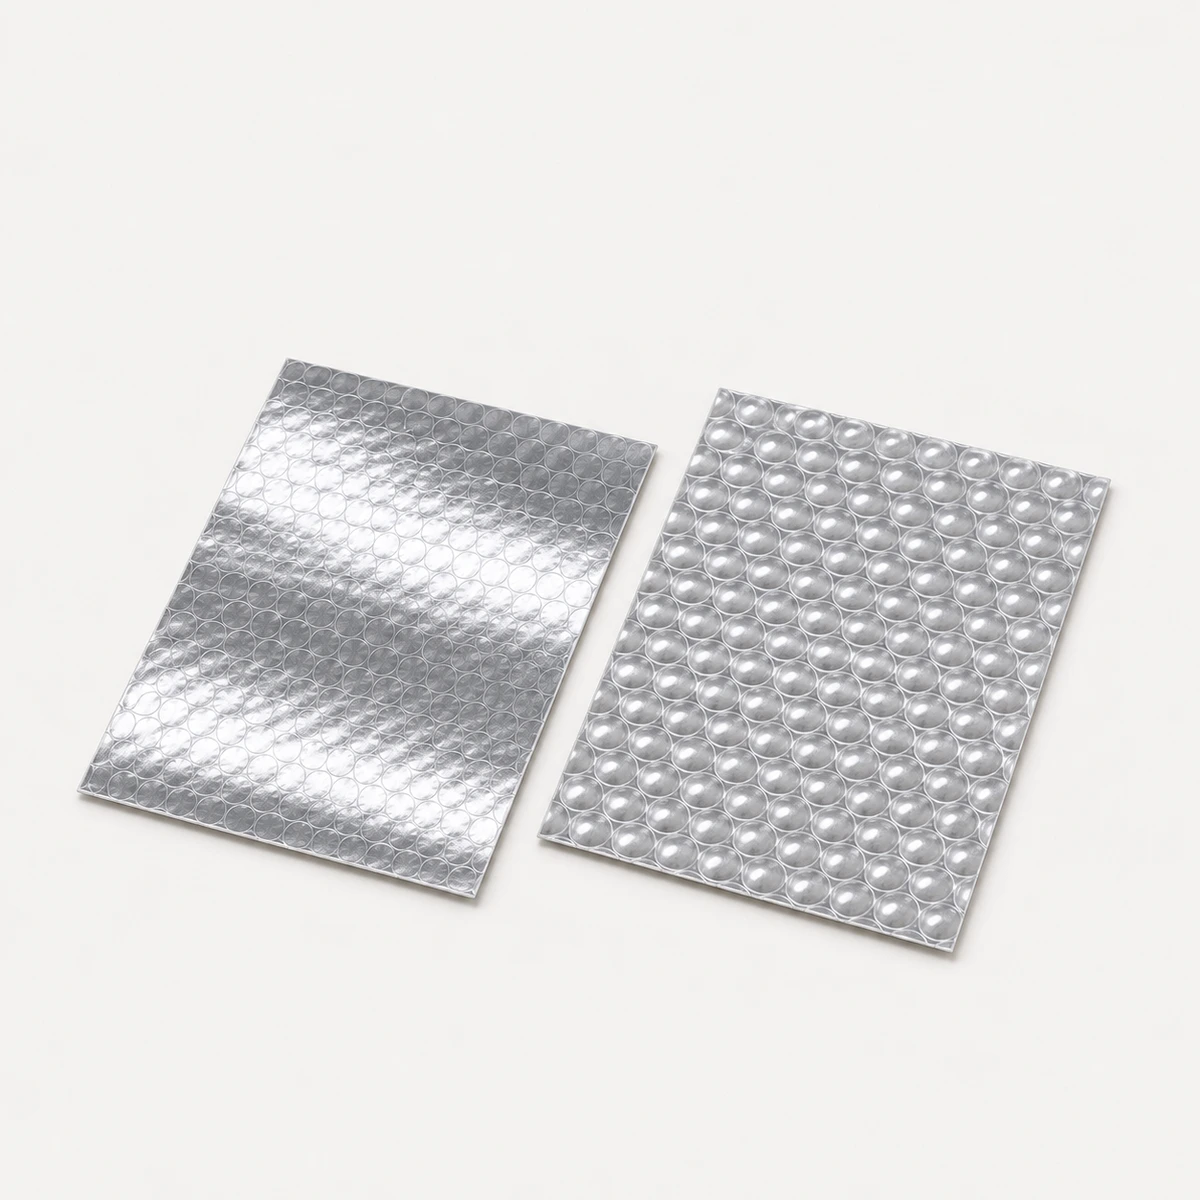
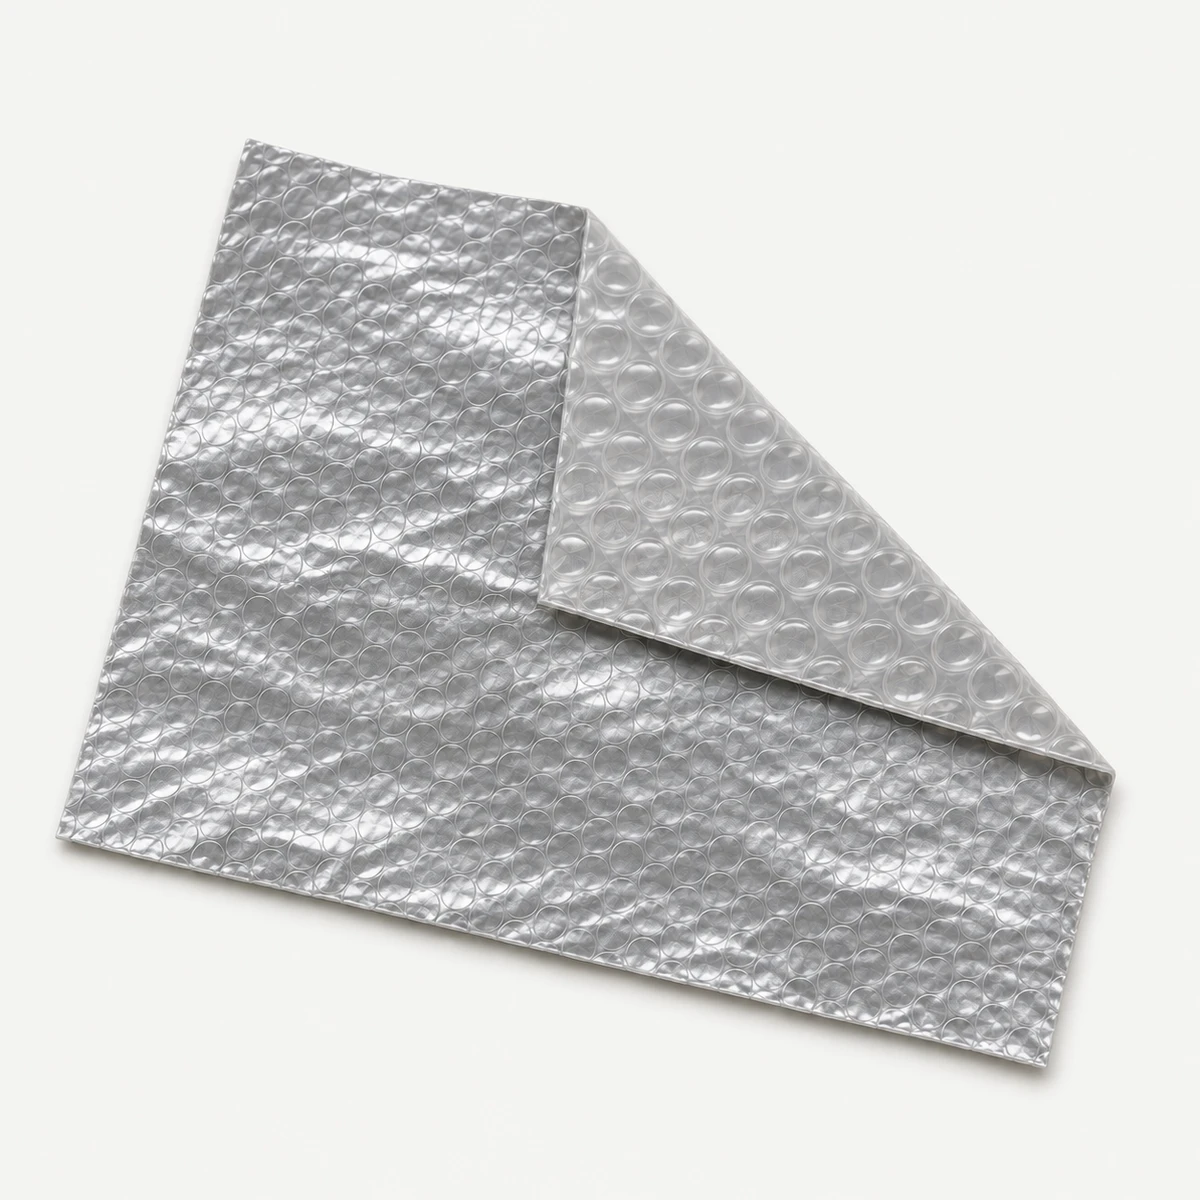
Refine three product galleries and add insulated mailer selection

diff --git a/src/MailerDetails.tsx b/src/MailerDetails.tsx
@@ -1,6 +1,55 @@
-import {tx,type Lang} from './data'
+import { bags, tx, type Lang } from './data'
+import { href } from './routes'
 
 export default function MailerDetails({lang}:{lang:Lang}) {
- const t=(en:string,zh:string,es:string)=>tx(en,zh,es)[lang]
- return <section className="detail-block" id="mailer-pack-out"><div className="detail-block-heading"><span>09</span><h2>{t('Insulated mailer selection','保温邮寄包装选型','Selección para envíos aislados')}</h2></div><p>{t('For small parcels, check this self-seal pouch together with the filled container and outer box. Allow space for the adhesive flap and any coolant. Test loading, corners and closure with a filled sample; a foil finish alone does not establish cushioning or thermal duration.','用于小件邮寄包装时，应将本自粘封口袋与装好后的容器及外箱一并核对，为封口翻边和冰源预留空间。通过装载样品检查装入、边角和封口；铝箔外观本身不能证明缓冲效果或保温时长。','Para pequeños paquetes, revise esta bolsa autoadhesiva con el recipiente lleno y la caja exterior. Reserve espacio para la solapa y el refrigerante. Compruebe carga, esquinas y cierre con una muestra llena; el acabado de aluminio no acredita amortiguación ni duración térmica.')}</p></section>
+  const t = (en:string, zh:string, es:string) => tx(en, zh, es)[lang]
+  const formats = [
+    {
+      slug: 'self-adhesive-foil-bags',
+      guidance: tx(
+        'Trial the filled container through the opening, then check the flap can fold onto a clear sealing area. Include container corners and any coolant in the fit check.',
+        '先用装好后的容器试装，再检查翻边能否落在完整封口区域。容器边角及拟配冰源都要计入适配检查。',
+        'Pruebe la abertura con el recipiente lleno y compruebe que la solapa alcance una zona de sellado libre. Incluya las esquinas y cualquier refrigerante al revisar el ajuste.'
+      ),
+    },
+    {
+      slug: 'gusseted-self-seal-foil-bags',
+      guidance: tx(
+        'Compare the gusseted base when the package needs more depth. Check the expanded base against the box footprint, and confirm that the filled box passes through the opening before choosing a size.',
+        '盒装内容物需要底部深度时，比较立体底款。按盒底占地核对底部展开空间，并先检查装好的盒子能否通过袋口。',
+        'Compare la base con fuelle cuando el paquete necesite más fondo. Revise la base desplegada frente a la caja y confirme que la caja llena pase por la abertura antes de elegir medidas.'
+      ),
+    },
+    {
+      slug: 'foil-insulated-box-liners',
+      guidance: tx(
+        'Compare a liner when you are lining a separate shipping container. Use that container’s usable internal dimensions and allow for the goods, coolant and top closure. Confirm the outer container separately.',
+        '如果要给独立运输外箱配置保温内衬，比较箱内衬款。按外箱有效内尺寸安排货物、冰源和顶部封合空间，外箱本身单独确认。',
+        'Compare un revestimiento si va dentro de un contenedor de transporte independiente. Use las medidas interiores útiles y reserve espacio para mercancía, refrigerante y cierre superior. Confirme el contenedor exterior por separado.'
+      ),
+    },
+  ]
+
+  return <section className="detail-block" id="mailer-pack-out">
+    <div className="detail-block-heading"><span>09</span><h2>{t(
+      'Insulated mailer selection',
+      '保温邮寄包装选型',
+      'Selección para envíos aislados'
+    )}</h2></div>
+    <p>{t(
+      'For small parcels, check this self-seal pouch together with the filled container and outer box. Allow space for the adhesive flap and any coolant. Test loading, corners and closure with a filled sample; a foil finish alone does not establish cushioning or thermal duration.',
+      '用于小件邮寄包装时，应将本自粘封口袋与装好后的容器及外箱一并核对，为封口翻边和冰源预留空间。通过装载样品检查装入、边角和封口；铝箔外观本身不能证明缓冲效果或保温时长。',
+      'Para pequeños paquetes, revise esta bolsa autoadhesiva con el recipiente lleno y la caja exterior. Reserve espacio para la solapa y el refrigerante. Compruebe carga, esquinas y cierre con una muestra llena; el acabado de aluminio no acredita amortiguación ni duración térmica.'
+    )}</p>
+    <ul className="mailer-format-options">{formats.map(format => {
+      const product = bags.find(bag => bag.slug === format.slug)!
+      return <li key={format.slug}>
+        <h3>{format.slug === 'self-adhesive-foil-bags'
+          ? product.short[lang]
+          : <a href={href('/products/' + format.slug + '/', lang)}>{product.short[lang]} ↗</a>
+        }</h3>
+        <p>{format.guidance[lang]}</p>
+      </li>
+    })}</ul>
+  </section>
 }

diff --git a/src/bubble-roll-product.ts b/src/bubble-roll-product.ts
@@ -88,18 +88,18 @@ export const bubbleRollImages:ProductImage[]=[
     "file": "standardized/foil-bubble-insulation-rolls/01.webp",
     "kind": "visualization",
     "label": {
-      "en": "Reflective roll with a short unrolled sheet",
-      "zh": "反射面卷材与展开片段",
-      "es": "Rollo reflectante con un tramo desplegado"
+      "en": "Roll with a turned-back bubble corner",
+      "zh": "卷材与反折露出的气泡背面",
+      "es": "Rollo con esquina de burbujas doblada"
     }
   },
   {
     "file": "standardized/foil-bubble-insulation-rolls/02.webp",
     "kind": "visualization",
     "label": {
-      "en": "Two samples showing reflective face and bubble reverse",
-      "zh": "两片样品展示反射面与气泡背面",
-      "es": "Dos muestras con cara reflectante y reverso de burbujas"
+      "en": "One sample with a folded corner",
+      "zh": "同一张样片折角展示正反面",
+      "es": "Una muestra con la esquina doblada"
     }
   },
   {

diff --git a/src/cage-cover-product.ts b/src/cage-cover-product.ts
@@ -88,9 +88,9 @@ export const cageCoverImages:ProductImage[]=[
     "file": "standardized/insulated-roll-cage-covers/01.webp",
     "kind": "visualization",
     "label": {
-      "en": "Closed reflective cover above free castors",
-      "zh": "闭合反射面罩体与外露脚轮",
-      "es": "Funda cerrada con ruedas libres"
+      "en": "Open curtain, cartons and free castors",
+      "zh": "前帘打开、箱装货物与外露脚轮",
+      "es": "Cortina abierta, cajas y ruedas libres"
     }
   },
   {

diff --git a/src/ibc-cover-product.ts b/src/ibc-cover-product.ts
@@ -86,9 +86,9 @@ export const ibcCover:Bag={
 }
 const imageLabels=[
   {
-    "en": "Closed reflective IBC cover with two access flaps",
-    "zh": "闭合反射面吨桶罩与两处检修翻盖",
-    "es": "Funda reflectante cerrada con dos accesos"
+    "en": "IBC cover with both access flaps open",
+    "zh": "两处检修翻盖打开的吨桶罩",
+    "es": "Funda IBC con ambas solapas abiertas"
   },
   {
     "en": "Top flap open above the closed filler cap",

diff --git a/src/product-sections.css b/src/product-sections.css
@@ -79,3 +79,8 @@
   .drum-fit-compare dl{grid-template-columns:1fr}
   .drum-purchase-intro .product-quick-contact{gap:10px 14px}
 }
+
+.mailer-format-options{list-style:none;display:grid;gap:20px;padding:0;margin:24px 0}
+.mailer-format-options>li{border-top:1px solid var(--line);padding-top:18px}
+.mailer-format-options h3{font-size:17px;margin:0 0 8px}
+.mailer-format-options a{color:var(--blue);text-decoration:underline;text-underline-offset:3px}
